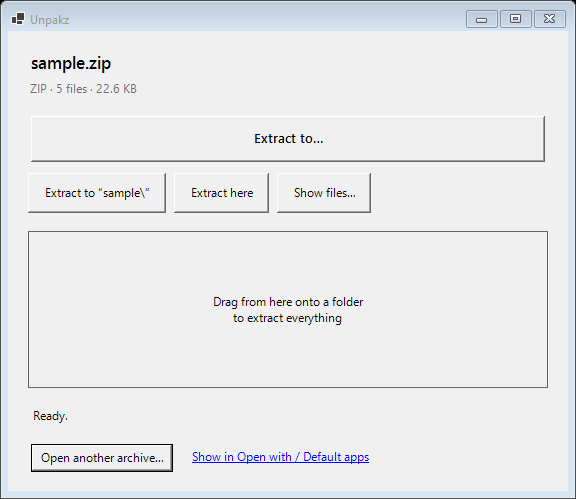
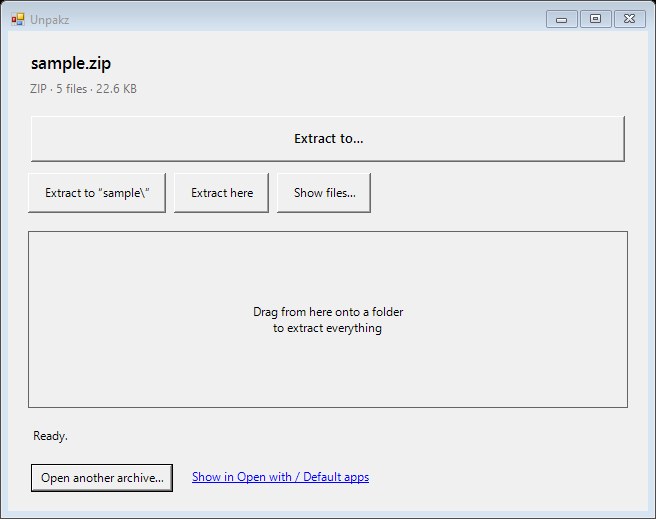
0.2.0: README, STATUS, HARNESS, decision 0005, packaging script, screenshots, UTF-8 CLI output

diff --git a/src/Unpakz.Cli/Program.cs b/src/Unpakz.Cli/Program.cs
@@ -1,8 +1,13 @@
 using System;
+using System.Text;
 
 namespace Unpakz.Cli;
 
 internal static class Program
 {
-    private static int Main(string[] args) => CliApp.Run(args, Console.Out, Console.Error);
+    private static int Main(string[] args)
+    {
+        Console.OutputEncoding = new UTF8Encoding(false);      // file names are Unicode; the default console code page is not
+        return CliApp.Run(args, Console.Out, Console.Error);
+    }
 }

diff --git a/README.md b/README.md
@@ -1,44 +1,58 @@
 # unpakz
 
-> **Work in progress: moving to a C++ backend.** The engine now lives in `native/` (`unpakz.dll`: ZIP/ZIP64 including > 2 GiB, tar.gz, RAR 4 and
-> RAR 5, built on libarchive and our RAR5 reader) with .NET Framework 4.8 front ends to follow; see [docs/STATUS.md](docs/STATUS.md) for what is
-> done and measured. The text below describes the released v0.1.0 (C#, .NET 10), which stays until the front ends are migrated.
->
-> **Experimental (v0.1.0).** Written test-first with AI assistance as a harness-engineering exercise. It has been tested on Linux/WSL
-> and on Windows 11 (automated tests only, no field use). Real drag-and-drop into Explorer has **not** been observed working
-> (see [Known limitations](#known-limitations)). Review the code before trusting it with anything important: archive extraction is
-> a security boundary.
+> **Experimental (v0.2.0).** Written test-first with AI assistance as a harness-engineering exercise. Tested on Windows 11 and on
+> Linux/WSL by automated tests only; no field use. Real drag-and-drop into Explorer has **not** been observed working (see
+> [Known limitations](#known-limitations)). Review the code before trusting it with anything important: archive extraction is a
+> security boundary.
 
-An extraction-only ZIP and RAR tool for Windows, built on .NET 10. It does not create archives.
+An extraction-only archive tool for **Windows 11**: ZIP / ZIP64 (including archives and entries over 2 GiB), tar.gz, RAR 4 and RAR 5.
+It does not create archives. Windows already ships `tar.exe`; what this adds is a hostile-input guard, no double write, a file list
+with selection and drag-out, RAR, and big archives.
+
+## Architecture
+
+```
+Unpakz.exe (WinForms)  unpakz.exe (CLI)          .NET Framework 4.8: in the box on Windows 11, nothing to install
+        \               /
+         Unpakz.Interop + Unpakz.Presentation    netstandard2.0: P/Invoke layer, view-models
+                  |
+            unpakz_native.dll                    C++ (MSVC, static CRT): all archive logic
+        guard + limits + single-write sink       <- authoritative; the managed side only re-checks names it shows
+        libarchive 3.8.11 (zip, tar.gz, RAR4)  +  our RAR5 reader (solid, filters, multi-volume, BLAKE2sp)  +  zlib-ng
+```
+
+The C API is seven functions (`native/include/unpakz.h`): list, extract, stream one entry (for drag-out), check a name, defaults, versions.
 
 ## What it does
 
-* **Formats**: ZIP / ZIP64 (stored, deflate), RAR 5 (stored and compressed methods 1-5, solid archives, delta / x86 / ARM filters,
-  multi-part sets `name.part1.rar …`).
+* **Formats**: ZIP/ZIP64 (stored, deflate), tar.gz / .tgz, RAR 4, RAR 5 (stored and methods 1-5, solid, delta/x86/ARM filters,
+  multi-part sets `name.part1.rar …`, CRC-32 and BLAKE2sp). Encrypted archives are refused with a clear message.
 * **No temporary folder.** Each file is decoded straight into a hidden temp *file* in its destination folder and renamed when its size
-  and CRC check out, so every byte is written once. A failed file leaves nothing behind. Dragging files out hands Explorer a
+  and checksum check out, so every byte is written once. A failed file leaves nothing behind. Dragging files out hands Explorer a
   stream of decoded bytes instead of extracting to a scratch folder first.
 * **Refuses hostile archives before writing anything**: `..` traversal, absolute / UNC / drive paths, reserved device names (`CON`,
-  `NUL.txt`, `COM¹` …), alternate data streams, trailing dots, case collisions, files that overlap inside the archive, symlinks and
-  special files (skipped and reported), zip bombs (size and ratio limits), oversized dictionaries, and existing files (it asks first).
+  `NUL.txt`, `COM¹` …), alternate data streams, trailing dots, case collisions, file/folder collisions, links and special files
+  (skipped and reported, never created), entry-count / size / dictionary limits, and existing files (it asks first).
 * **Windows app**: open or drop an archive; *Extract to…* (folder picker), *Extract to “name\”*, *Extract here*; a **file list** with
   search, sort, multi-select (picking a folder takes its contents) and *Extract selected to…*; drag either onto an Explorer folder.
   Progress and cancel. Optional registration in *Open with* / *Default apps* (per user, no admin).
-* **Command line** (`unpakz`): `l` list, `t` test (decode everything, write nothing), `x` extract (all or named paths; `-o`, `--here`,
-  `--skip`, `--overwrite`). Works on any OS with .NET 10.
+* **Command line** (`unpakz.exe`): `l` list, `t` test (decode everything, write nothing), `x` extract (all or named paths; `-o`, `--here`,
+  `--skip`, `--overwrite`).
 
 ![main window](docs/img/main.png) ![file list](docs/img/list.png)
 
 ## Install and use
 
-Requires the **.NET 10 Desktop Runtime** (Windows) — the first launch shows Microsoft's download prompt if it is missing.
+Windows 11 x64. No runtime to install.
 
-1. Download `unpakz-app-win-x64.zip` from the release page and unzip it anywhere.
-2. Run `Unpakz.exe`, then drop a `.zip` or `.rar` on the window, or use *Open another archive…*.
+1. Download `unpakz-app-win-x64.zip` from the release page and unzip it anywhere (keep the files together).
+2. Run `Unpakz.exe`, then drop an archive on the window, or use *Open another archive…*.
    `Unpakz.exe path\to\file.zip` opens it directly; so does choosing Unpakz in *Open with*.
-3. Optional: *Show in Open with / Default apps* (bottom of the window), then pick Unpakz for `.zip` / `.rar` in Windows Settings.
+3. Optional: *Show in Open with / Default apps* (bottom of the window), then pick Unpakz for `.zip` / `.rar` / `.tgz` in Windows Settings.
 
-Command line (`unpakz` from `unpakz-cli-win-x64.zip`, or `dotnet run --project src/Unpakz.Cli -- …`):
+The executables are not code-signed, so SmartScreen will warn on first run.
+
+Command line (`unpakz.exe` from `unpakz-cli-win-x64.zip`):
 
 ```
 unpakz l backup.zip                     list
@@ -51,48 +65,53 @@ Exit codes: 0 ok, 1 error (message explains), 2 usage, 130 cancelled.
 
 ## How it is verified
 
-The verification harness is the main deliverable. See **[HARNESS.md](HARNESS.md)** for commands, layers and the mutation harness.
+The verification harness is the main deliverable. See **[HARNESS.md](HARNESS.md)** and **[docs/STATUS.md](docs/STATUS.md)** for the numbers.
 
-* 677 automated tests (Linux and Windows) plus 153 Windows-only tests: COM data object, registry, and a UI matrix (6 window states ×
-  4 font scales × 3 sizes with screenshots, real button clicks over 6 archive formats).
-* Outputs are compared with 7-Zip and with RARLAB's `rar` / `unrar` (stored, methods 1-5, solid, forced filters, multi-volume).
-* 379 mutations of the code are applied one at a time; each must make a test fail (the few justified equivalents and the caveats are
-  listed in [docs/STATUS.md](docs/STATUS.md)).
-* Corruption sweeps flip every byte and truncate at every length of real archives: the result must be an `ArchiveException` or the
-  original bytes, never silently wrong data.
+* Native code: 7 test programs under AddressSanitizer + UBSan on WSL and under MSVC on Windows; a 210-mutant catalogue (every mutant
+  killed or listed as equivalent with its reason); a 5 GiB ZIP64 entry; corruption sweeps (every byte flip and truncation of real archives:
+  a typed error or the exact original bytes).
+* Differential conformance against `unrar`, 7-Zip and `tar` on committed fixtures, freshly generated archives and 102 third-party RAR
+  vectors (including libarchive's security regressions).
+* Managed code: 68 tests over the real native library (Linux and Windows) and 21 Windows tests on .NET Framework 4.8: COM data object,
+  registry, and the real windows rendered at 4 font scales × 3 sizes in 5 states with real button clicks.
 
 ## Known limitations
 
-* **Drag-and-drop into Explorer is unverified.** The data object is tested through its COM interfaces; but injected mouse input could not
-  start even a standard WinForms drag on the test machine, so no drop was observed. *Extract to…* is the verified path.
-* A single archive file larger than 2 GiB is refused with a clear message (a .NET memory limit); multi-part sets are fine per part.
-* Not supported yet: encrypted archives (ZIP or RAR), RAR 4, BLAKE2-only RAR checksums, self-extracting stubs, split ZIP,
-  Deflate64 / bzip2 / LZMA / zstd.
-* Performance has not been tuned (see `docs/`): it is correct first. I/O will usually dominate.
-* Windows-specific path rules (junctions, 8.3 names) rely on `PathGuard` plus the pre-existing-link check; the planned
-  `GetFinalPathNameByHandle` second layer is not implemented.
+* **Drag-and-drop into Explorer is unverified.** The data object is tested through its COM interfaces; injected mouse input could not
+  start a drag on the test machine, so no drop was observed. *Extract to…* is the verified path.
+* Not supported: encrypted archives, RAR entries without any checksum, self-extracting stubs, split ZIP, tar.bz2/xz/zstd, plain `.gz`.
+* ZIP names without an encoding flag are read as UTF-8; old archives in an OEM code page are refused rather than guessed.
+* RAR 4 goes through libarchive; one VM-filter edge case that `unrar` handles is refused. RAR 4 archives could not be generated here
+  (`rar` 7.x dropped `-ma4`), so RAR 4 is covered by third-party vectors only.
+* Performance is not tuned beyond zlib-ng's SIMD; there are no benchmarks of the new backend yet. I/O will usually dominate.
+* The file list has no "packed size" column (the native library does not report it).
+* Windows-specific path rules (junctions, 8.3 names) rely on the guard plus the check for links in the destination path.
 
 ## Layout
 
-| Project | Role |
+| Path | Role |
 |---|---|
-| `src/Unpakz.Core` | pure parsers and decoders (ZIP, RAR5): bytes in, bytes out, no file or OS access |
-| `src/Unpakz.Engine` | planner, extractor, `PathGuard`, file systems, streaming reader, selection, volume lookup, memory-mapped files |
-| `src/Unpakz.Presentation` | view-models for both windows (UI-free, fully testable) |
-| `src/Unpakz.Cli` | the command line |
-| `src/Unpakz.Windows` | COM virtual-file drag source, `IStream` bridge, registry registration (Windows only) |
-| `src/Unpakz.App` | the WinForms windows (Windows only) |
-| `tests/`, `harness/`, `HARNESS.md` | the verification harness |
+| `native/` | the C++ backend: `src/` (guard, engine, RAR5, sink, C API), `tests/`, `include/unpakz.h` |
+| `third_party/` | vendored libarchive and zlib-ng (see [docs/THIRD-PARTY.md](docs/THIRD-PARTY.md)) |
+| `src/Unpakz.Interop` | P/Invoke wrapper and UI-support logic (selection, naming, errors, drag list, entry stream) |
+| `src/Unpakz.Presentation` | view-models for both windows (UI-free, testable) |
+| `src/Unpakz.Cli`, `src/Unpakz.App`, `src/Unpakz.Windows` | the command line, the WinForms windows, the COM drag source and registry code |
+| `tests/`, `harness/`, `scripts/`, `HARNESS.md` | the verification harness |
+| `docs/decisions/` | why things are the way they are |
 
 ## Build and test
 
 ```
-./harness.sh fast                      # Linux / WSL: build with warnings as errors + all tests (~20 s)
-.\harness.ps1 fast                     # Windows: also builds the app and runs the UI tests
-dotnet publish src/Unpakz.App -c Release -r win-x64 --no-self-contained
+./harness.sh fast        # WSL: native library (optimised) + its tests, then the managed layers over it
+./harness.sh native      # WSL: native tests under AddressSanitizer + UBSan
+.\harness.ps1 fast       # Windows: MSVC native build + tests, then the managed projects and the UI tests
+.\scripts\package.ps1    # Windows: the release zips in artifacts\
 ```
+
+Windows needs Visual Studio Build Tools (MSVC, CMake, Ninja) and the .NET SDK.
 
 ## Credits and licence
 
-BSD-2-Clause, © 2026 Jean-Francois Bobier — see [LICENSE](LICENSE). The RAR 5 compression algorithm was implemented following libarchive's BSD-2
-reader (credited in [docs/THIRD-PARTY.md](docs/THIRD-PARTY.md)); no RARLAB or 7-Zip RAR source was used.
+BSD-2-Clause, © 2026 Jean-Francois Bobier — see [LICENSE](LICENSE). Built on libarchive (BSD-2-Clause, several files under other permissive
+licences) and zlib-ng (zlib licence); the RAR 5 algorithm follows libarchive's reader. Details in [docs/THIRD-PARTY.md](docs/THIRD-PARTY.md).
+No RARLAB or 7-Zip RAR source was used.

diff --git a/docs/STATUS.md b/docs/STATUS.md
@@ -1,45 +1,36 @@
-# Status (2026-11-14) – EXPERIMENTAL, mid-migration to the native backend
+# Status (2026-11-14) – v0.2.0, EXPERIMENTAL
 
-Direction (user, 2026-11-14; `docs/decisions/0003`, `0004`): Windows 11 only; a C++ DLL (`native/`, MSVC, libarchive + our RAR5 reader) does all
-archive work; front ends are .NET Framework 4.8 (UI and CLI); formats ZIP/ZIP64 (>2 GiB), tar.gz, RAR4, RAR5; licence BSD-2-Clause.
+Architecture (user decisions, `docs/decisions/0003`, `0004`, `0005`): Windows 11 only; C++ backend DLL (`unpakz_native.dll`, MSVC) that does all archive work
+(libarchive + our RAR5 reader); .NET Framework 4.8 front ends (WinForms app, CLI) over a netstandard2.0 interop layer; ZIP/ZIP64 (>2 GiB), tar.gz, RAR4,
+RAR5; BSD-2-Clause. The C# net10 engine of 0.1.0 is retired.
 
-## Where things are
-
-| Piece | State |
-|---|---|
-| `native/` backend DLL (`unpakz.dll`, 7 exported C functions, ABI v1) | **works**; built with MSVC on Windows and clang/gcc on WSL |
-| Formats | ZIP (stored/deflate, ZIP64 verified with a 5 GiB entry), tar.gz, RAR4 (libarchive), RAR5 (our reader: stored, methods 1-5, solid, filters, multi-volume, BLAKE2sp) |
-| Guard, limits, single-write sink, pre-flight pass, selection filter, cancel, progress | in `native/src` (guard.cpp, engine.cpp, fs_native.cpp), C ABI in `api.cpp` |
-| Managed front ends | **not migrated yet**: the released 0.1.0 app/CLI still run on the retired C# net10 engine. `src/Unpakz.Interop` (net48 P/Invoke layer) is written but not yet built or tested |
-| Drag-out of virtual files | needs one more native call (stream one entry); not written yet |
-| C# net10 Core/Engine | kept as the comparison oracle until the native backend passes the same corpus, then retired (decision 0003.6) |
-
-## Measured
+## Measured (all run on 2026-11-14)
 
 | Check | Result |
 |---|---|
-| `./harness.sh native` (ASan + UBSan, warnings as errors) | 7 test executables pass (~60 s): guard 15, engine 41, API 11, volumes 7, rar5 fixtures 10, rar5 container/volumes 56, rar5 decoder 55 tests |
-| MSVC on Windows (`scripts/native-win.ps1`, Release, `/W4 /WX`, static CRT) | the same 7 pass |
-| `unpakz.dll` called from Windows PowerShell (CLR 4.0, i.e. .NET Framework) via P/Invoke (`scripts/dll-smoke.ps1`) | ABI 1, extracted a zip with a non-ASCII name |
-| Differential conformance (`harness/conformance.py`) | all fixtures, freshly generated rar -ma5 (m0-m5, solid, md4m, filters, multi-volume), zip, 7z-zip, tar.gz identical to `unrar` / 7-Zip / `tar` |
-| Third-party corpus (102 RAR vectors incl. libarchive's security regressions) | every file: same result as `unrar`, or a typed refusal, or a documented decision (`KNOWN` in the script); no crash, no hang |
-| Native mutation catalogue | 210 mutants (guard, engine, RAR5 container, decoder, filters); every mutant killed or listed in `EQUIVALENT` with its reason (20) |
-| C# side (unchanged since 0.1.0) | 677 + 153 tests, 379 mutants |
+| `./harness.sh fast` (WSL) | native tests (optimised build) pass; managed build with warnings as errors; 68 managed tests over the real native library pass |
+| `./harness.sh native` (WSL, ASan + UBSan, warnings as errors) | 7 native test programs pass: guard 15, engine 41, API 13, volumes 7, rar5 fixtures 11, rar5 container/volumes 56, rar5 decoder 55 |
+| `.\harness.ps1 fast` (Windows 11, MSVC Release `/W4 /WX`, .NET Framework 4.8 and .NET 10 test hosts) | the same 7 native programs pass; 68 managed tests pass; 21 Windows tests pass (COM data object, registry, real windows at 4 font scales x 3 sizes in 5 states, real button clicks) |
+| Packaged zips smoke-tested from a clean folder (`scripts/package.ps1`) | CLI extracted zip (non-ASCII name), tar.gz and a solid RAR5, `t` and `l` work; the app starts with an archive argument and keeps running |
+| Differential conformance (`harness/conformance.py`) | fixtures, freshly generated `rar -ma5` (m0-m5, solid, md4m, filters, multi-volume), zip, 7z-zip, tar.gz identical to `unrar` / 7-Zip / `tar` |
+| Third-party corpus (102 RAR vectors incl. libarchive's security regressions) | each file: same result as `unrar`, or a typed refusal, or a documented decision (`KNOWN` in the script); no crash, no hang |
+| Native mutation catalogue | 210 mutants; each killed or listed in `EQUIVALENT` with its reason (20). Guard/engine mutants were judged on the ASan build, RAR5 mutants on an optimised build (three sanitizer-only ones checked on ASan) |
+| ZIP64 | an opt-in test extracts a 5 GiB entry (`UNPAKZ_BIG=1`) |
 
-Honest caveats
-* The native mutation run was done in pieces while the catalogue grew; the 129 RAR5 mutants were judged on an optimised (non-sanitizer) build, the
-  three that only a sanitizer can see were checked on the ASan build. The guard/engine mutants were judged on the ASan build earlier and not rerun after
-  the RAR5 work touched `engine.cpp`'s reader plumbing (the engine tests did rerun and pass).
-* Names without an encoding flag are read as UTF-8 (libarchive `hdrcharset=UTF-8`, with a per-call UTF-8 thread locale). Old zips in an OEM code
-  page are refused rather than guessed. A retry with the OEM code page is the planned fix.
-* RAR4 goes through libarchive: its VM-filter edge case `rar_filter_incomplete_block.rar` is refused (unrar extracts it). RAR4 archives cannot be
-  generated here (`rar` 7.x dropped `-ma4`), so RAR4 coverage is the 28 third-party vectors.
-* Encryption is refused everywhere (typed `Unsupported`). RAR entries without any checksum are refused. Links are never created.
-* Not done: SFX / prefixed archives, tar.bz2/xz/zstd, parallel pipeline, the C++ hardware CRC (zlib-ng's `crc32` is used, already SIMD), windowed
-  access for archives that do not fit in memory is not needed (files are read positionally) but has not been stress-tested beyond the 5 GiB zip.
+## Honest caveats
 
-## Next, in order
-1. Native: `unpakz_read_entry` (push the bytes of one entry to a callback) for drag-out; OEM-code-page retry for zip names.
-2. Managed: build `Unpakz.Interop` (net48), add the entry-stream bridge, retarget `Unpakz.Presentation`, the WinForms app, the COM layer and the CLI to
-   net48 over the interop layer; port the view-model/UI matrix tests; run them against the native DLL.
-3. Retire the C# Core/Engine once the managed tests pass on the native backend; publish `0.2.0` (x64, unpakz.dll + net48 exe, nothing to install).
+* Real OLE drag into Explorer is **not verified** (injected input cannot start a drag on the test machine). The data object is tested through
+  `IDataObject`/`IStream`, and entries stream through `unpakz_read_entry`.
+* The guard/engine native mutants were not rerun after the RAR5 work touched the reader plumbing in `engine.cpp`; the engine tests were, and pass.
+* The managed C# mutation catalogue (379 mutants) was retired with the C# engine; the new managed layer has tests but no mutation run yet.
+* The managed unit tests run against the native library through P/Invoke; the Windows UI tests ran on this one machine.
+* Names without an encoding flag are read as UTF-8 (per-call UTF-8 thread locale); OEM-code-page zips are refused rather than guessed.
+* RAR4 goes through libarchive; the VM-filter edge case `rar_filter_incomplete_block.rar` is refused. RAR4 files cannot be generated here
+  (`rar` 7.x dropped `-ma4`): coverage is the 28 third-party vectors.
+* Encryption is refused everywhere; RAR entries without any checksum are refused; links are never created.
+* No performance benchmarks of the new backend yet (zlib-ng is SIMD; the RAR5 decoder is a straight port, untuned).
+* Not done: SFX / prefixed archives, split ZIP, tar.bz2/xz/zstd, plain `.gz`, OEM-codepage retry for zip names, a "packed size" column.
+
+## Next
+1. A real drag-and-drop observation on a desktop session (or a UIA-driven test), and a benchmark pass on large archives (benchmark first, per CLAUDE.md rule 5).
+2. A mutation run for the managed layer, and an OEM-codepage retry for old zips.

diff --git a/HARNESS.md b/HARNESS.md
@@ -124,3 +124,16 @@ checksum are refused, malformed extra records are refused, file versions are kep
 
 The mutation runner refuses to judge on a red baseline. Mutants that cannot change behaviour (defence in depth behind a libarchive check that
 already fires) are listed with the reason in `harness/native_mutations.py`.
+
+## The managed layers (since 0.2)
+
+| Layer | Where | What it proves |
+|---|---|---|
+| Interop over the real native library | `tests/Unpakz.Interop.Tests` (net10, Linux and Windows; the library is found by `Env.cs`) | P/Invoke surface, typed errors, callbacks and cancellation, entry streaming, selection, naming, friendly errors, drag list, `FileGroupDescriptor` bytes, registration plan |
+| View-models and CLI over the real native library | same project (`ViewModelTests`, `CliTests`; `CliApp.cs` is compiled into the tests) | open/extract flows, overwrite prompt, cancel, hostile archive, drag stream, file list sorting/filtering/selection, exit codes |
+| Windows (.NET Framework 4.8) | `tests/Unpakz.Windows.Tests` | COM data object called only through `IDataObject`/`IStream`; real registry (scratch key); the real forms at 4 font scales x 3 sizes in 5 states with PNG screenshots (`ui-shots/`), real button clicks |
+
+Fixtures: `tests/fixtures/` (small `.rar` files made by the real `rar` 7.23, incl. solid, forced filters and three multi-volume sets). Shared builders (`tests/Support`) write ZIP and RAR5
+independently of the code under test.
+
+The retired C# stack (`Unpakz.Core`/`Engine`, 677 tests, 379 mutants) is in git history before 0.2.0.

diff --git a/docs/decisions/0005-managed-layers-and-library-name.md b/docs/decisions/0005-managed-layers-and-library-name.md
@@ -1,0 +1,13 @@
+# 0005 – Managed layers on the native backend; library file name
+
+Date: 2026-11-14
+
+* `Unpakz.Interop` and `Unpakz.Presentation` target **netstandard2.0**: one build serves .NET Framework 4.8 (the shipped front ends) and .NET 10 (tests on WSL against
+  `libunpakz_native.so`). The WinForms app, the COM layer and the CLI target net48.
+* The native library file is **`unpakz_native.dll`**. It was first `unpakz.dll`, which on a case-insensitive file system is also the first thing the .NET loader probes for the managed
+  assembly `Unpakz` (the app), producing "module was expected to contain an assembly manifest". `unpakz_core` was taken by the static library target.
+* The CLI's assembly is `unpakz.exe` and the app's `Unpakz.exe`: they differ only by case, so they ship in separate zips and the Windows tests reference the app only.
+* The view-models lost the "Packed" column (the native API does not report packed sizes) and take an `ArchiveSession` instead of the old engine's `ArchiveSource`.
+* Zero-entry results from files with no recognisable signature are refused ("not a supported archive"): a plain tar has no signature and zeros read as an empty tar.
+* Test-only NuGet packages added: `System.Memory` 4.5.5 (Microsoft, MIT) for the Windows tests' shared fixture builders on .NET Framework;
+  `Microsoft.NETFramework.ReferenceAssemblies` 1.0.3 (Microsoft, MIT, build-time only) so net48 projects also build on Linux. No runtime dependencies were added to the shipped zips.
